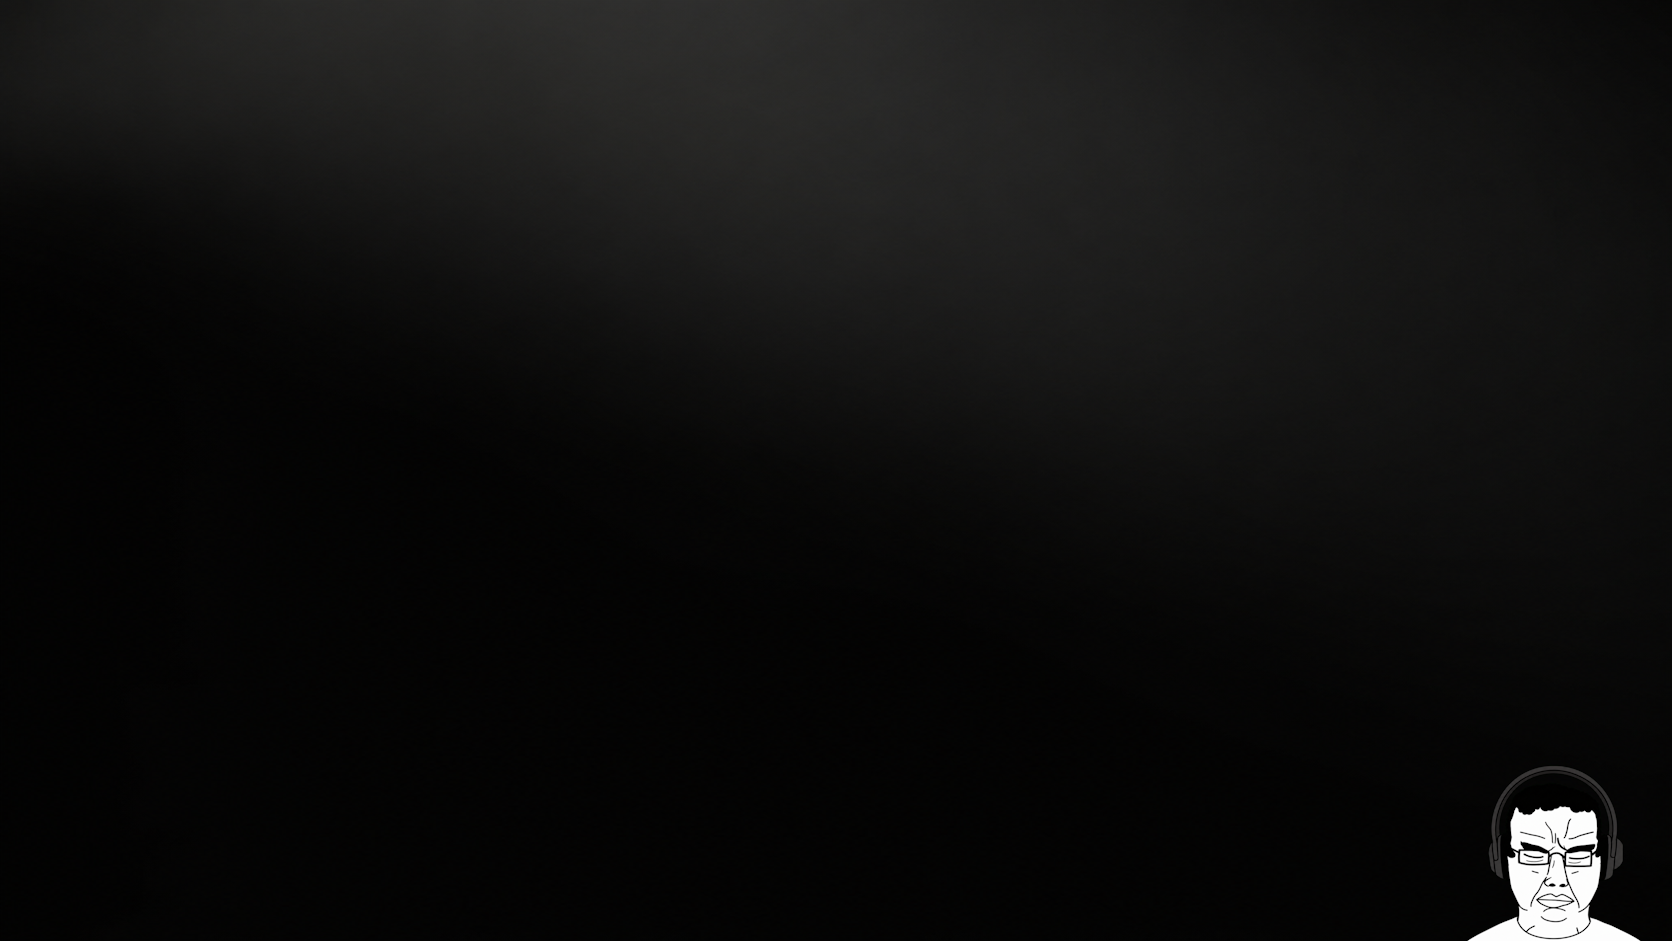
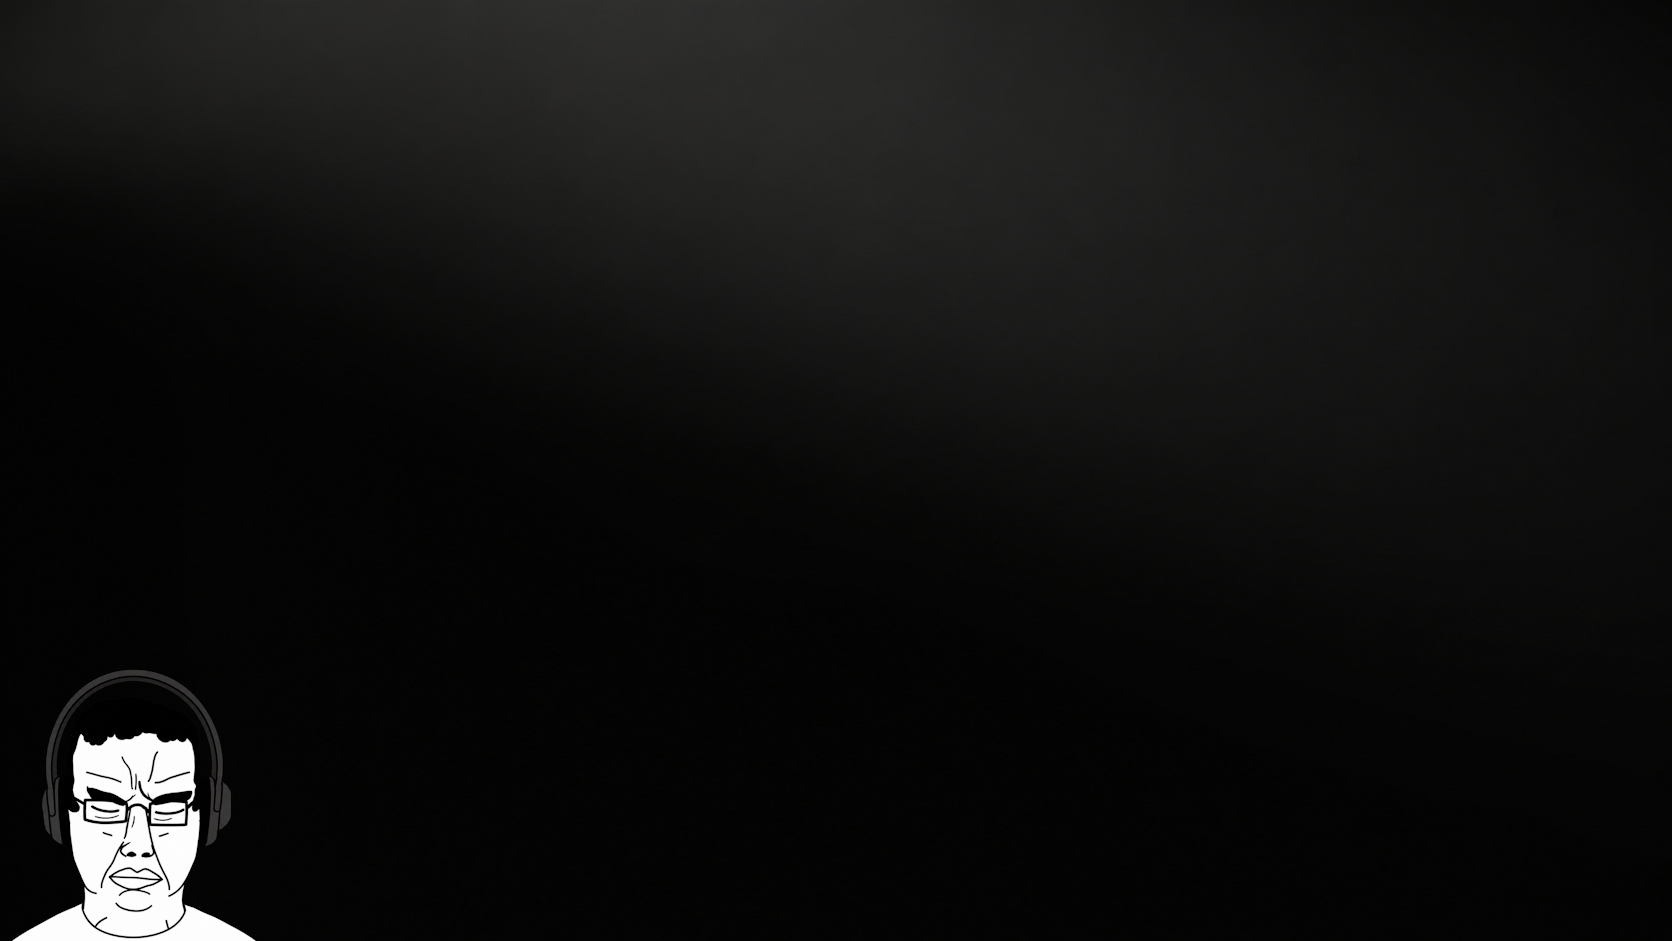
Added loudness normalization to pipeline output and new thumbnail template for video

Changed region(s): [[0.0, 0.7088, 0.1555, 1.0], [0.8708, 0.8013, 0.9952, 1.0]]

diff --git a/src/karaoke_pipeline/video_generation.py b/src/karaoke_pipeline/video_generation.py
@@ -192,10 +192,6 @@ def video_generation(font_color, yt_link=None, audio_path="", video_path="", out
 
   print("[PROGRESS] - 80%", flush=True)
 
-  filters = (
-    "loudnorm"
-  )
-
   # Create video
   cmd = [
     "ffmpeg",
@@ -211,7 +207,8 @@ def video_generation(font_color, yt_link=None, audio_path="", video_path="", out
     "-i", video_path,
     "-i", final_instrumental_path,
 
-    "-filter:a", filters, 
+    "-filter:a",
+    "loudnorm=I=-14:LRA=11:TP=-1.5",
 
     "-vf",
     (
